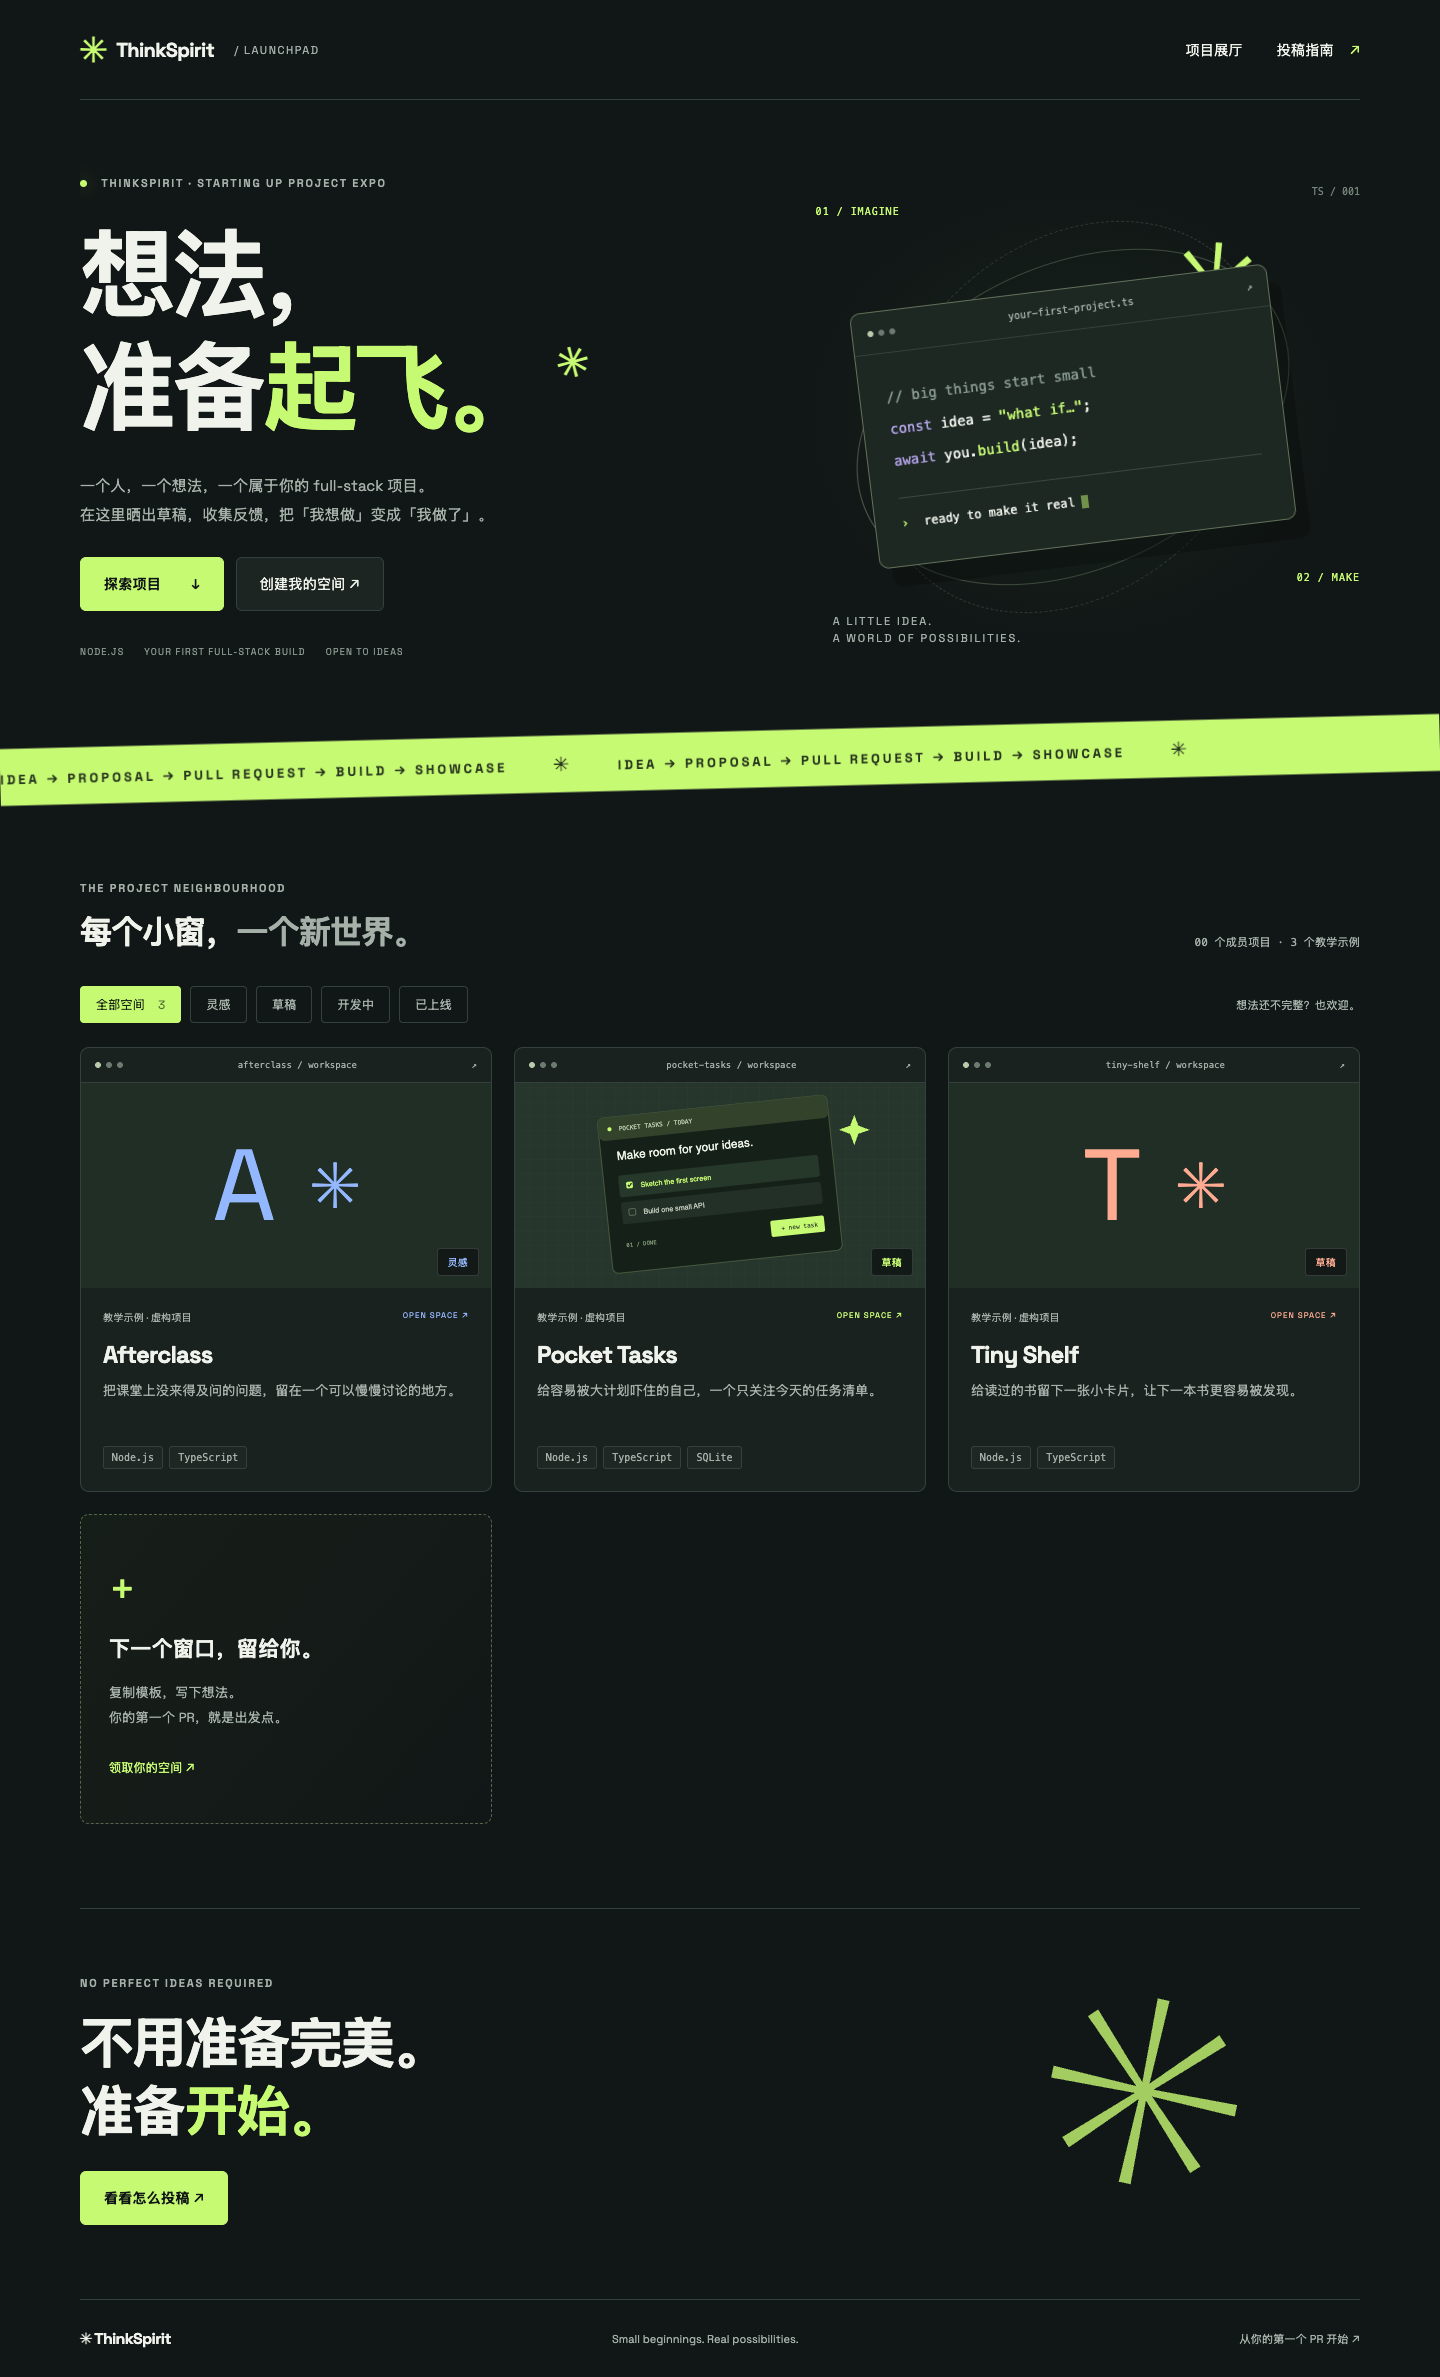
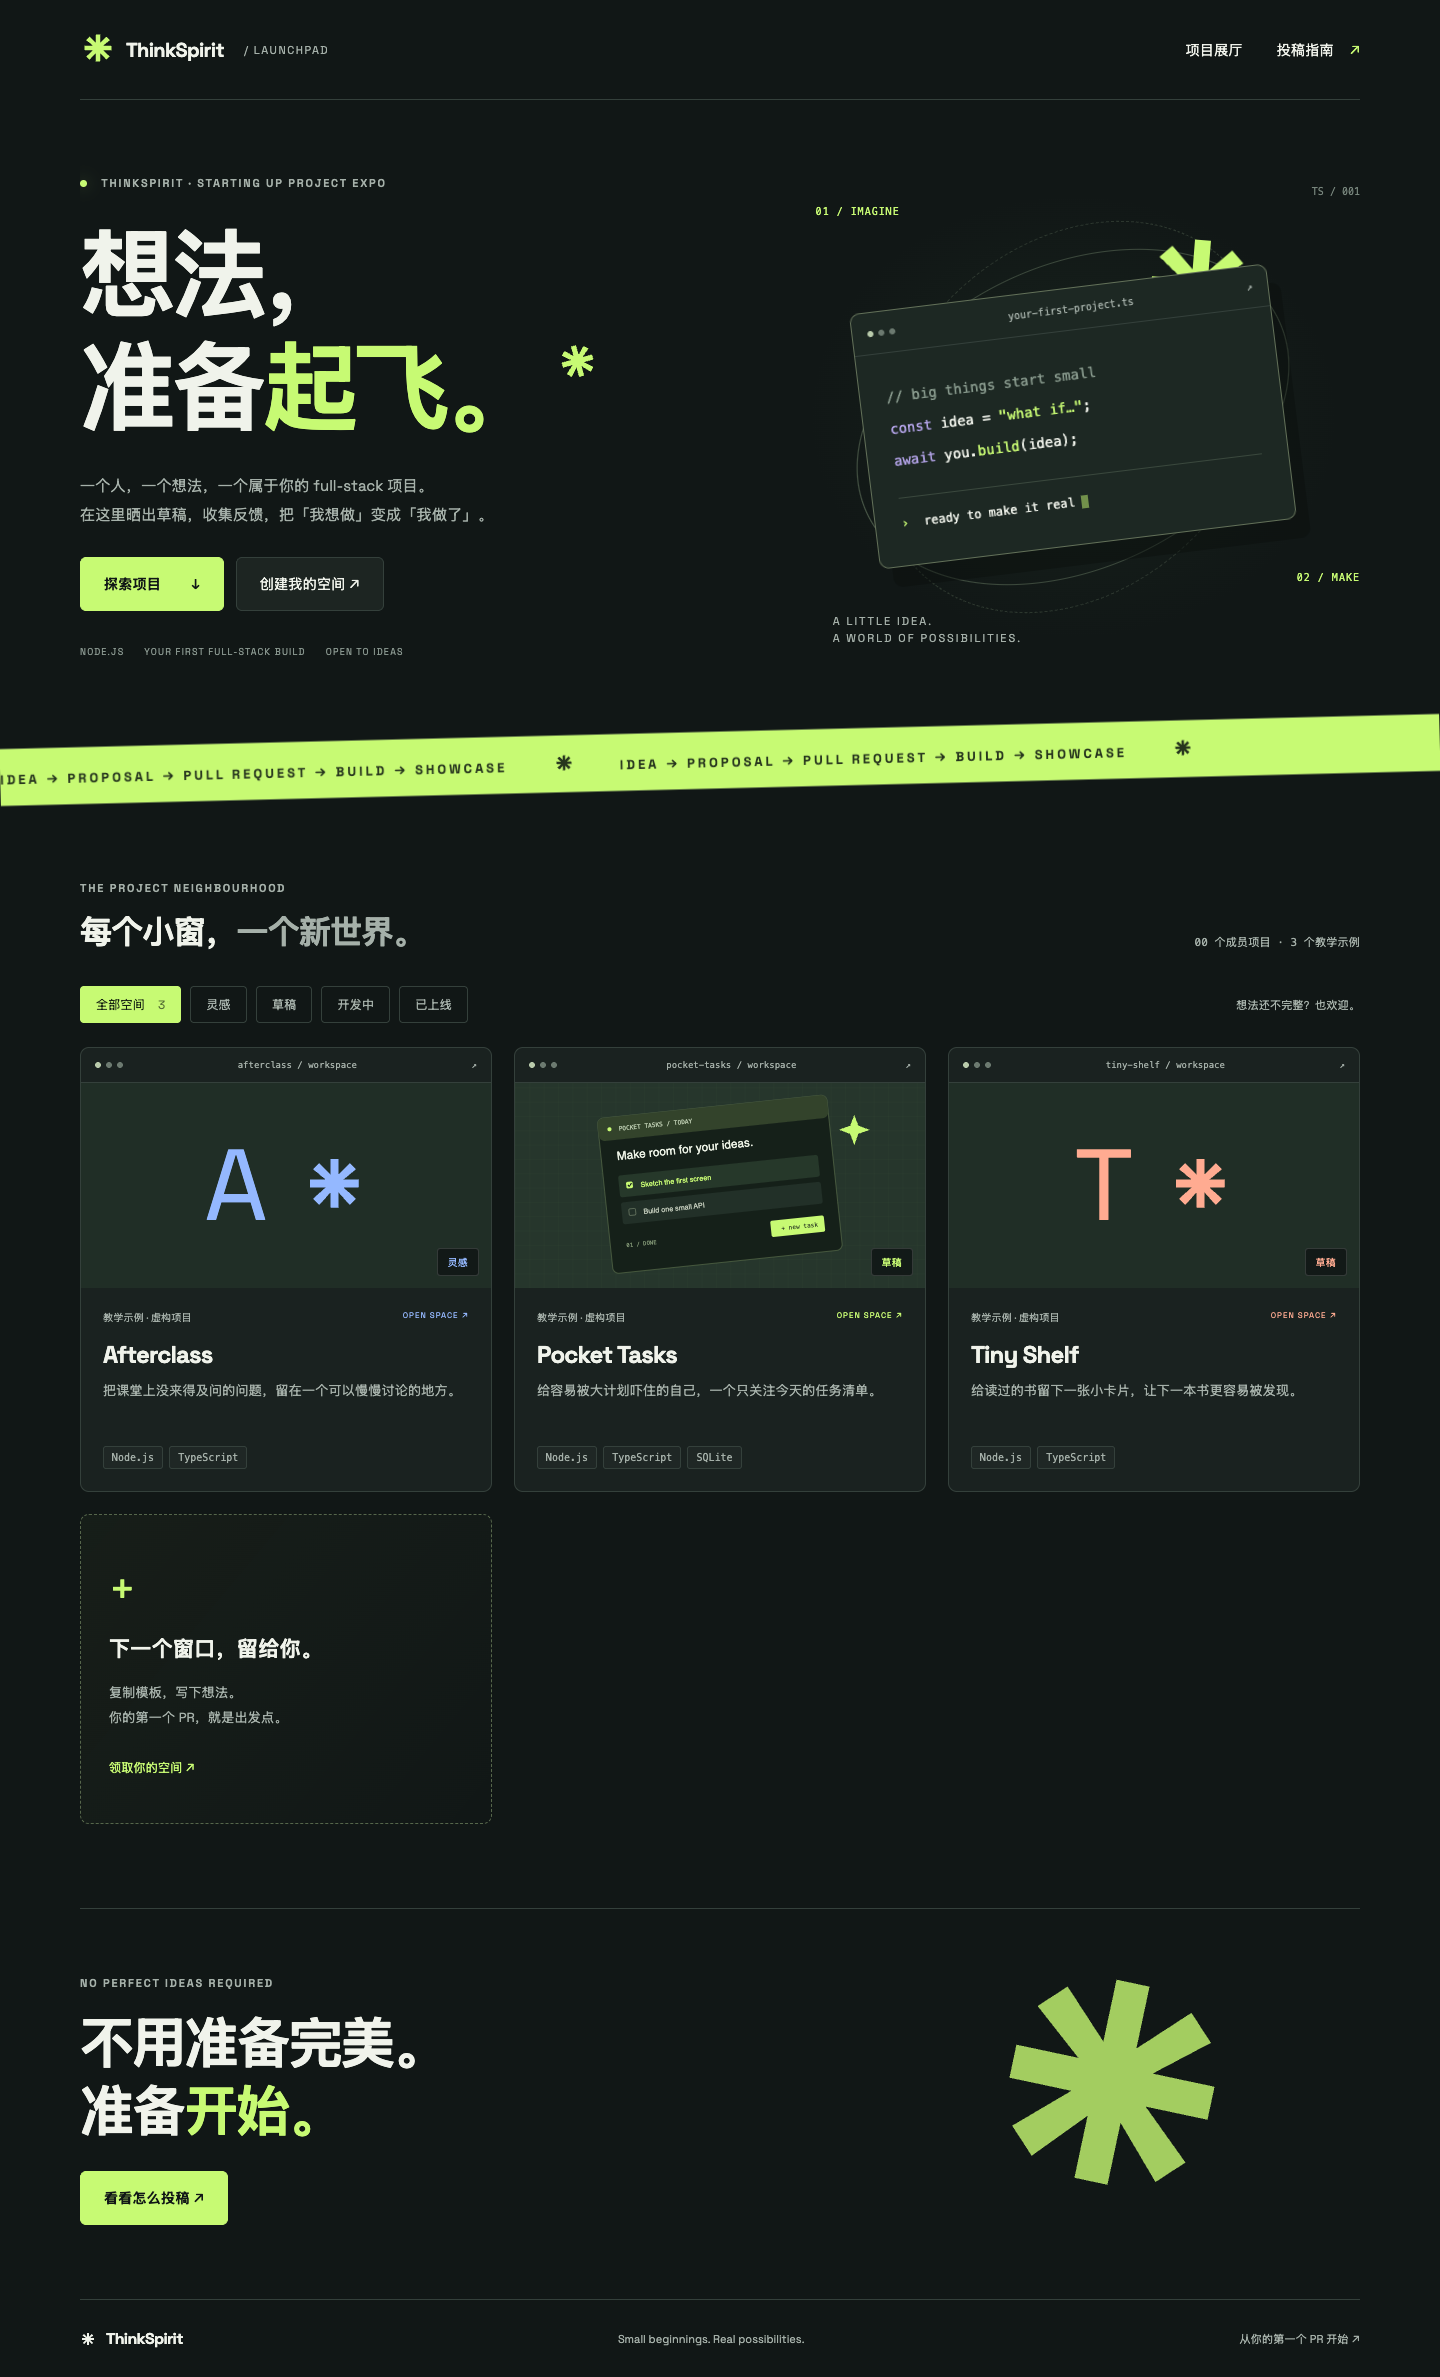
fix: render decorative stars as SVG instead of emoji glyphs

diff --git a/src/styles/global.css b/src/styles/global.css
@@ -69,6 +69,13 @@ button:focus-visible {
   font-weight: 700;
   letter-spacing: -0.7px;
 }
+.star-icon {
+  display: inline-block;
+  width: 1em;
+  height: 1em;
+  vertical-align: -0.12em;
+  flex-shrink: 0;
+}
 .brand-mark {
   font-size: 36px;
   color: var(--lime);
